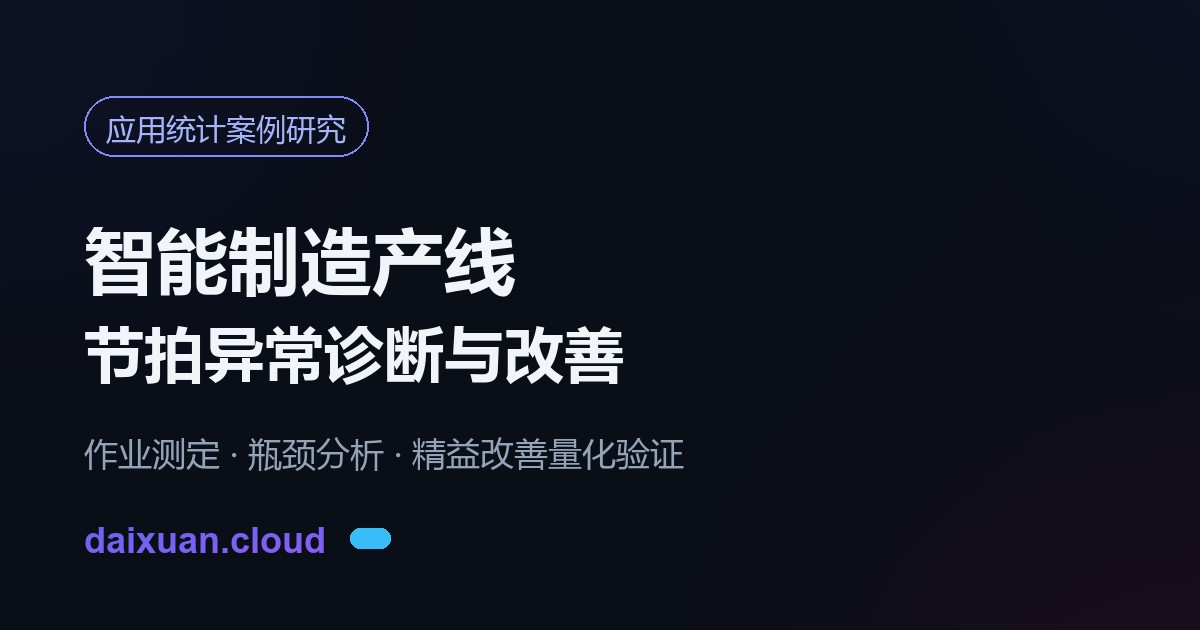
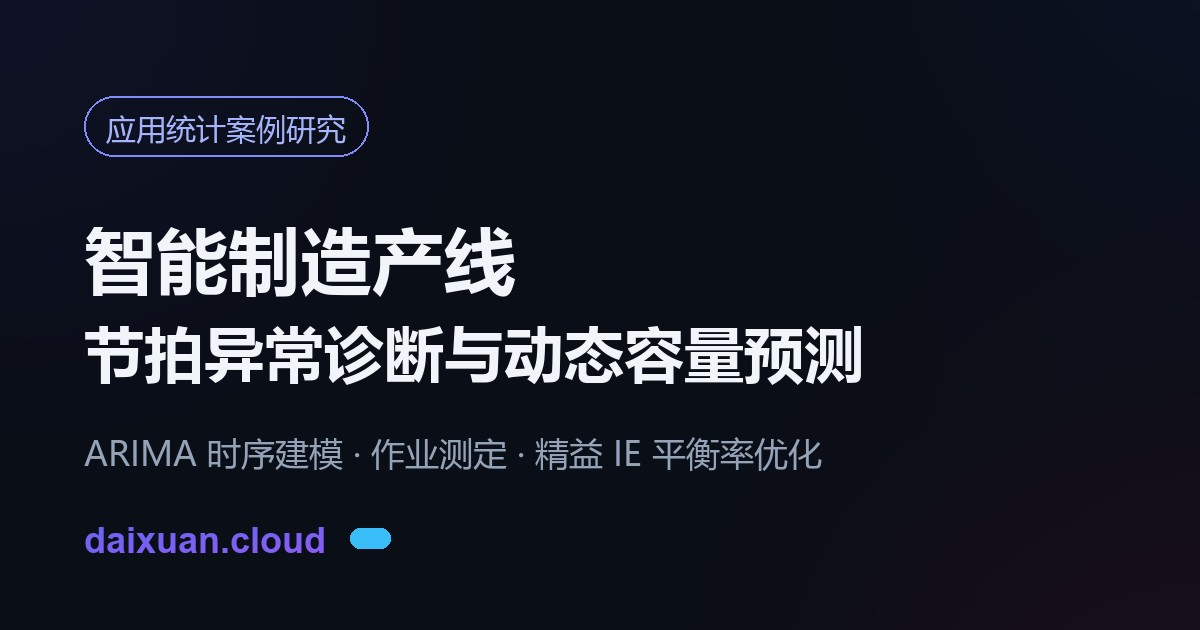
fix(polish): 复审遗留四项 — 重复 h1、分享卡文案、移动端元信息换行、robots 清理
- campus-map/snow-viz 各保留单一 h1：加载页/片头大标题降级为 div（渲染不变），
  修正 #loader h1 选择器为 .loader-title
- smart-mfg 分享卡标题与页面 og:title 对齐为「节拍异常诊断与动态容量预测」，副题同步 ARIMA 表述
- 案例页 .case-meta-item strong 加 nowrap：390px 视口下「参赛团队代码」等标签不再断字
- robots.txt 移除三条指向已删除文件的 Disallow（保留 /*.py$ 兜底与 sitemap）

验证：本地实测 campus-map/snow-viz h1=1 且片头渲染不变；案例页移动端 0 断行标签；
分享卡目检通过

Changed region(s): [[0.0617, 0.6937, 0.6783, 0.754], [0.4008, 0.5127, 0.74, 0.6333]]

diff --git a/snow-viz/index.html b/snow-viz/index.html
@@ -2490,7 +2490,7 @@ async function initWebXRSession(gl) {
       </div>
 
       <div class="cover-eyebrow" style="font-size:16px; letter-spacing:8px; opacity:0; animation: fadeIn 2s forwards 0.6s;">JILIN · ICE & SNOW ECONOMY</div>
-      <h1 style="font-size: 64px; margin: 20px 0; color: #fff; text-shadow: 0 0 40px rgba(117,216,237,0.6); opacity:0; animation: fadeIn 2s forwards 1s;">雪线之上</h1>
+      <div style="font-size: 64px; margin: 20px 0; color: #fff; text-shadow: 0 0 40px rgba(117,216,237,0.6); opacity:0; animation: fadeIn 2s forwards 1s;">雪线之上</div>
       <p style="font-size: 20px; color: var(--ice); margin-bottom: 40px; letter-spacing: 4px; opacity:0; animation: fadeIn 2s forwards 1.5s;">吉林冰雪经济目标可视化交互系统</p>
       
       <div class="cover-meta" style="justify-content: center; opacity:0; animation: fadeIn 2s forwards 2s; border: none; background: rgba(0,0,0,0.4); padding: 20px; border-radius: 12px; max-width: 500px; margin: 0 auto 50px;">

diff --git a/campus-map/css/style.css b/campus-map/css/style.css
@@ -22,7 +22,7 @@ body {
   animation: spin 1.1s linear infinite;
 }
 @keyframes spin { to { transform: rotate(360deg); } }
-#loader h1 { font-size: 30px; letter-spacing: 10px; text-indent: 10px; font-weight: 700; }
+#loader .loader-title { font-size: 30px; letter-spacing: 10px; text-indent: 10px; font-weight: 700; }
 #loader .en { font-size: 11px; letter-spacing: 3px; color: #7fa3c8; }
 #loader .bar { width: 260px; height: 4px; border-radius: 2px; background: rgba(255,255,255,.12); overflow: hidden; }
 #loader .bar i { display: block; height: 100%; width: 0%; border-radius: 2px;

diff --git a/campus-map/index.html b/campus-map/index.html
@@ -30,7 +30,7 @@
 <!-- 加载页 -->
 <div id="loader">
   <div class="logo-ring"></div>
-  <h1>长春工业大学</h1>
+  <div class="loader-title">长春工业大学</div>
   <div class="en">CHANGCHUN UNIVERSITY OF TECHNOLOGY · 全景立体地图</div>
   <div class="bar"><i id="loadProgress"></i></div>
   <div class="tip" id="loadTip">正在构建三维校园…</div>

diff --git a/case-studies/applied-statistics-credit-risk.html b/case-studies/applied-statistics-credit-risk.html
@@ -83,6 +83,7 @@
       align-items: center;
       gap: 6px;
     }
+      .case-meta-item strong { white-space: nowrap; }
     .case-section {
       background: var(--bg-card);
       backdrop-filter: var(--glass-blur);
